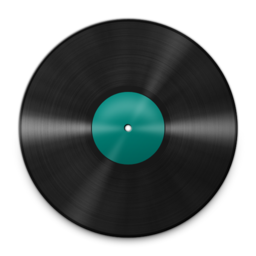
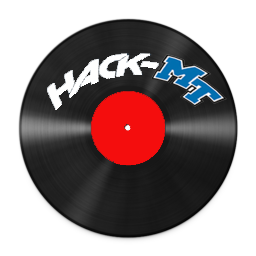
Added hack mt vinyl images

diff --git a/songshift/static/js/function.js b/songshift/static/js/function.js
@@ -160,7 +160,7 @@ $(document).ready(function () {
 
     function showNewVinyl() {
         $('.vinyl img').remove();
-        var rand = Math.floor((Math.random() * 7) + 1);
+        var rand = Math.floor((Math.random() * 3) + 1);
         $('.vinyl').append('<img src="../static/img/vinyl' + rand + '.png" id="vrotate" />');
         setUpVinyl();
     }

diff --git a/songshift/static/css/style.css b/songshift/static/css/style.css
@@ -1,3 +1,4 @@
+
 .iphone {
     position: fixed;
     font-family: 'Jura', sans-serif;
@@ -16,7 +17,7 @@ div {
     z-index: 2;
     top: 8.7em;
     left: 3.8em;
-    background: #ECE1C2;
+    background: #F9E5AD;
     /*background: url('../img/color.png');*/
 }
 

diff --git a/songshift/templates/index.html b/songshift/templates/index.html
@@ -49,8 +49,6 @@
                 <div class="needle">
                     <img src="../static/img/needle.png" class="rneedle">
                 </div>
-                <div class="circle1"></div>
-
 
                 <div class="control-bar">
 

diff --git a/songshift/router.py b/songshift/router.py
@@ -56,7 +56,7 @@ def getNewTrack(next_href='/tracks'):
     valid_track_types = 'original, remix'
     users_tags = "rock, electronic"
 
-    rand = random.randint(0, 100);
+    rand = random.randint(0, 100)
     if rand > suggestion_threshold:  # differs from user's likes
         tracks = client.get(next_href,
                             limit=SEARCH_AHEAD,
@@ -82,16 +82,15 @@ def getNewTrack(next_href='/tracks'):
                                 linked_partitioning=1)
             valid_tracks = []
             for track in tracks.collection:
-                 if validTrack(track):
-                     print track.title
-                     valid_tracks.append(track)
+                if validTrack(track):
+                    print track.title
+                    valid_tracks.append(track)
             if valid_tracks:
                 track = random.choice(valid_tracks)
                 need_track = False
 
         except Exception:
             pass
-
 
     if not track:
         getNewTrack()
@@ -100,7 +99,6 @@ def getNewTrack(next_href='/tracks'):
     #     getNewTrack()
 
     return track, tracks.next_href
-
 
 
 def validTrack(track):
@@ -115,7 +113,6 @@ def validTrack(track):
 
 @app.route('/newsong', methods=['GET'])
 def loadSong():
-
     track, next_href = getNewTrack(request.args['next_href'])
 
     # fetch track to stream
@@ -124,7 +121,7 @@ def loadSong():
     stream_url = client.get(track1.stream_url, allow_redirects=False)
 
     track_dict = {
-        "next_href" : next_href,
+        "next_href": next_href,
         "song_title": track.title,
         "artist": track.user['username'],
         "artwork_url": track.artwork_url,
